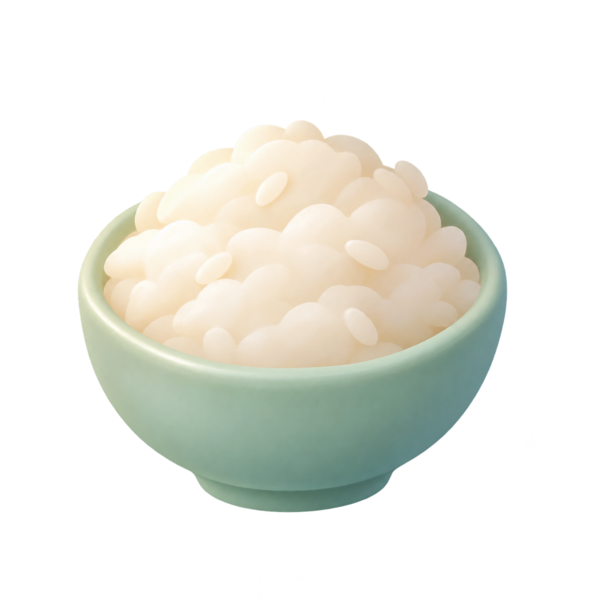
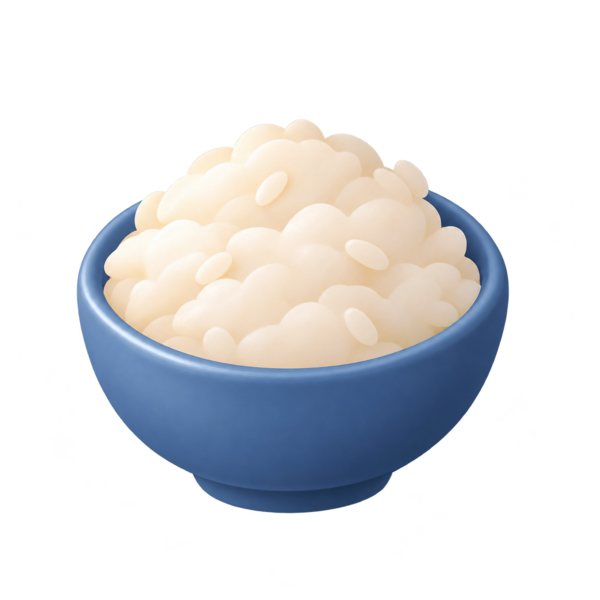
Deepen rice bowl blue for clearer contrast

Changed region(s): [[0.12, 0.3, 0.87, 0.87]]

diff --git a/art-review/samples/README.md b/art-review/samples/README.md
@@ -5,10 +5,12 @@ Generated with the built-in imagegen tool on 2026-11-04. Sources are preserved a
 - style-review.png: four samples on near-black, pale and sunset-gradient backgrounds. The gradient is a contrast swatch, not an emulator screenshot or the full room renderer.
 - small-size-review.png: rice at 64px and coin at 22px on both themes. These are raster-pixel checks; on-device dp checks remain pending.
 - classic-idle1.webp and red-panda-idle1.webp: 600×650, transparent, quality-90 WebP (30,002 and 36,232 bytes). Lossless versions exceeded the skin budget; lossless PNG masters are retained.
-- rice.webp and coin.webp: 600×600, transparent, lossless WebP (95,446 and 140,504 bytes).
+- rice.webp and coin.webp: 600×600, transparent, lossless WebP (102,048 and 140,504 bytes).
 
 The classic and edited red panda use the same 550×596 transform and +25,+12 placement on a 600×650 canvas. The generated source heights differ by one pixel, so this is a visual pose match, not a validated production animation rig. Feet sit around y=590. Full frame alignment and all-eight-room checks remain pending.
 
 Visual review: all four read on these three swatches; dark limbs remain visible, cream faces have shaded edges, and neither food nor coin has a white box. Rice and paw coin remain recognisable at small size. There is more fine surface texture in the generated masters than the proposed smooth-art guide intended; it recedes at display size but should not be increased. The coin is the glossiest asset and can be softened if desired. Preview sheets use PNG masters; inspect WebP candidates separately before production use.
 
 Audit: ../AUDIT.md. Proposed art direction: ../STYLE-GUIDE.md. Full asset replacement, launcher changes, build/lint and emulator screenshots are deliberately deferred until sample approval, as requested.
+
+Rice bowl revised to muted cobalt blue at user request for stronger contrast against ivory rice and pale backgrounds. Updated both review sheets and checked the 64px preview on dark and light.

diff --git a/art-review/STYLE-GUIDE.md b/art-review/STYLE-GUIDE.md
@@ -6,7 +6,7 @@ Status: proposed, awaiting approval of four samples. Glass stays in UI chrome; a
 - Palette: warm porcelain #F7F3EB, cool shaded ivory #D4DCE1, charcoal #252B35 with lifted lit edges #465361. Restrained blush #E9ADA4. Food uses appetising muted ochre, terracotta and leaf green. Coin: honey #E8B44F, light #FFE3A0, shade #B5782B. Red panda: russet #B95E38, amber #DA9059, cream markings and charcoal legs.
 - Shape/line: continuous rounded silhouettes; use a fine darker local-colour edge where necessary, never a thick black sticker border. A subtle cool rim separates dark limbs from near-black rooms; slightly darker ivory edges preserve pale-on-pale contrast. No external glow.
 - Light: broad soft key from upper left, shadow lower right. Low gloss, no plastic specular blobs, grain, photographic texture or baked ground plane. Transparent outside each object, including between limbs.
-- Food: one compact serving, three-quarter view with a consistent shallow viewing angle. Broad ingredient shapes survive 64dp. Rice sample uses one celadon bowl, no chopsticks or extra props. Genuine transparency.
+- Food: one compact serving, three-quarter view with a consistent shallow viewing angle. Broad ingredient shapes survive 64dp. Rice sample uses one muted cobalt-blue bowl (#365B91), with lighter blue edges for dark-backdrop separation, no chopsticks or extra props. Genuine transparency.
 - UI icons: simple silhouettes with the same shallow satin volume; no text or currency symbols. Paw-embossed single coin, coral heart, friendly skull.
 - Rooms: opaque portrait gradients and simple natural silhouettes; no text, calm lower 60%. Broad green variants should complement the code-painted rooms.
 

diff --git a/art-review/PROMPTS.md b/art-review/PROMPTS.md
@@ -10,3 +10,7 @@ Shared direction: soft sculpted storybook illustration, broad smooth satin shadi
 4. Coin: one nearly face-on thick gold coin with tiny lower-right bevel, honey #E8B44F, highlight #FFE3A0, ochre #B5782B. One embossed paw with large pad and four toe pads, rounded raised rim, minimal detail. No letters, currency glyph, numbers, milling, glitter or stack. Square canvas, centered, about 75% occupied width. Readable at 22px.
 
 Generation is followed by deterministic resizing/compositing for review. The original generated PNGs remain in samples/*-source.png. Production prompts should use the approved image as a visual reference as well as these written constraints.
+
+## Rice colour revision
+
+User requested better bowl contrast. Built-in imagegen edit of rice-source.png: change only ceramic from pale celadon to muted cobalt/slate blue #365B91, upper-left highlights #7095C1 and lower-right shading #263E64. Preserve warm ivory rice, geometry, rim, perspective, composition, size and lighting. Keep genuine transparency, no floor, external shadow, new objects or text. Same canvas/margins. Updated sample exports and review sheets; previous version is retained in git history.
